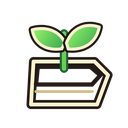
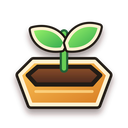
Slabs back on Index and Shop; Garden and the Bag stay bare, and coloured
The bare treatment was too wide. It applies to Garden and the Bag only, so
UIKit.railButton takes a `bare` flag and builds either kind: a transparent
ImageButton with the artwork filling all 50px, or the UIKit.slab it always built
-- face, shade, gradient, lattice, corner, outline, a 28px icon and the word
beside it. Same footprint either way, 130x50 and 50x50, so nothing moved and no
touch target shrank.

AND THOSE TWO ARE FILLED ARTWORK AGAIN. Knocking their fills out was right while
they sat on a plate the same colour as themselves -- the planter's amber on a
#ECA034 slab, the satchel's leather on a #C4945C one. That reason left with the
plate: on a bare button there is nothing to clash with, and a hollow icon over
nothing is just the world showing through, which is exactly why they came out
looking like they had no colour.

So they go back to their ORIGINAL uploads rather than new ones:

  Garden    rbxassetid://106268245303506
  Inventory rbxassetid://135554729755251

The knocked-out pair, 131355079577116 and 124800563254633, are superseded and
unused. The SVG masters and both PNG sizes were restored from 7540ba2 rather
than re-cut by hand, so the drop shadows came back with the fills and the files
are byte-identical to what those ids were made from.

RAIL.IconSize (28, riding on a slab) and RAIL.IconBare (50, when the artwork IS
the button) replace the short-lived IconWide/IconSquare. RAIL's faces are read
[…]

Changed region(s): [[0.0938, 0.2188, 0.9062, 0.9062]]

diff --git a/KB/HANDOFF.md b/KB/HANDOFF.md
@@ -1,5 +1,41 @@
 # Steal a Seed — Session Handoff
 
+## The rail is two kinds of button — 2026-09-09 (CLAUDE)
+
+Final shape, after the owner narrowed the previous change: **Index and Shop keep
+their slabs; Garden and the Bag are bare.**
+
+`UIKit.railButton` takes a `bare` flag. Bare builds a transparent `ImageButton`
+with the artwork filling all 50px and asks for its own `UIKit.clicks`; otherwise
+it builds a `UIKit.slab` exactly as it always did -- face, shade, gradient,
+lattice, corner, outline, a 28px icon and the word beside it. Same footprint for
+both: 130x50 and 50x50, so nothing moved and no touch target shrank.
+
+**Garden and the Bag are FILLED artwork again**, back on their original uploads:
+
+| icon | id | note |
+| --- | --- | --- |
+| Shop | `rbxassetid://90931969678136` | slab |
+| Index | `rbxassetid://126806966970007` | slab |
+| Garden | `rbxassetid://106268245303506` | bare, filled |
+| Inventory | `rbxassetid://135554729755251` | bare, filled |
+
+The knocked-out pair (`131355079577116`, `124800563254633`) are superseded and
+unused. Knocking the fills out was right while those two sat on a plate the same
+colour as themselves; with no plate there is nothing to clash with, and a hollow
+icon on a bare button is just the world showing through -- which is what made
+them look colourless. The SVG masters and PNGs were restored from `7540ba2`
+rather than re-cut, so the drop shadows came back with them.
+
+`RAIL.IconSize` (28, on a slab) and `RAIL.IconBare` (50, when the artwork is the
+button) replace the short-lived `IconWide`/`IconSquare`.
+
+Verified in Play: Index and Shop carry Corner+Stroke+Gradient+Lattice with 28px
+icons, labels and the Index badge; Garden and Bag have none of that, background
+transparency 1.00 and 50px icons; all four icons loaded; Index -> Shop -> Garden
+-> Bag each opened its own panel; all four back to UIScale 1.000 after hovering
+every one, one UIScale each; console 0 errors; rojo build clean.
+
 ## The rail lost its slabs — 2026-09-09 (CLAUDE)
 
 At the owner's direction the icon IS the button now: no background, not inside a
